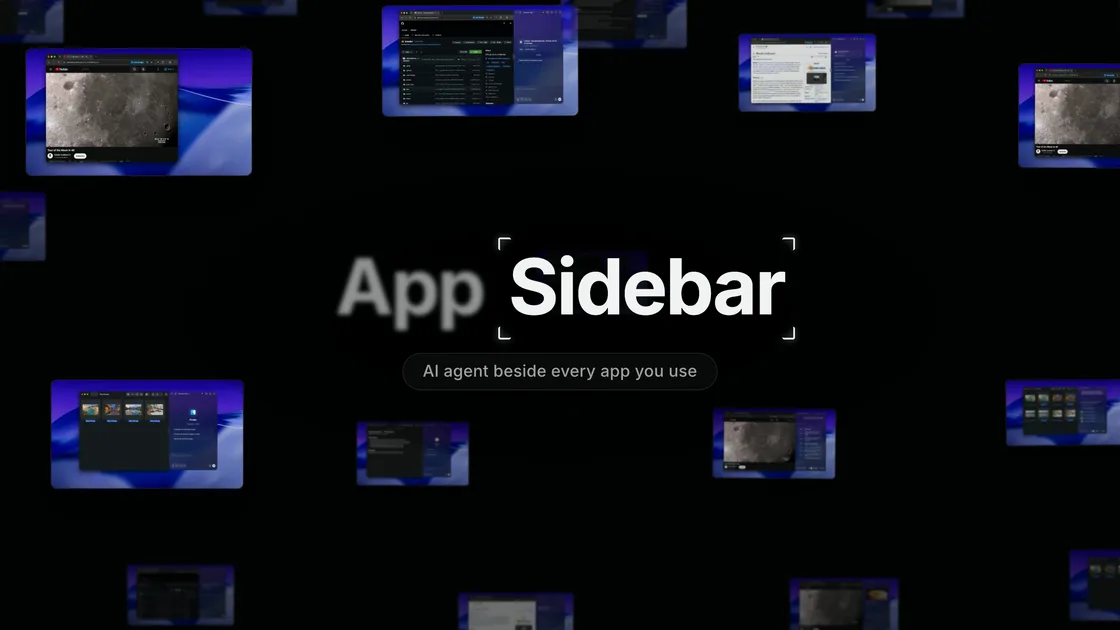
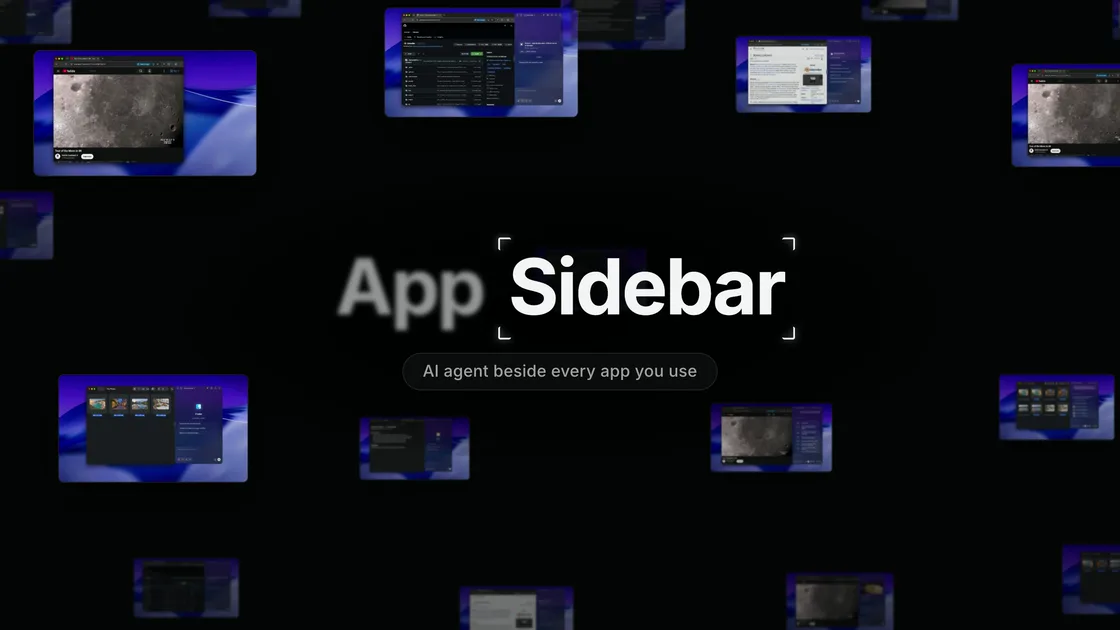
Homepage: the App Sidebar launch film v67 (opens on its title, no black first frame) and its poster

diff --git a/src/data/heroShowcase.tsx b/src/data/heroShowcase.tsx
@@ -101,7 +101,7 @@ export const heroTabs: HeroTab[] = [
                 id: 'launch-film',
                 label: 'Launch film',
                 caption: 'YouTube, Finder, Notes, and Numbers — one sidebar does the work in every app.',
-                media: { type: 'video', src: 'https://file.enconvo.com/videos/app-sidebar-launch-v66.mp4', poster: appSidebarPoster.src },
+                media: { type: 'video', src: 'https://file.enconvo.com/videos/app-sidebar-launch-v67.mp4', poster: appSidebarPoster.src },
             },
         ],
     },
